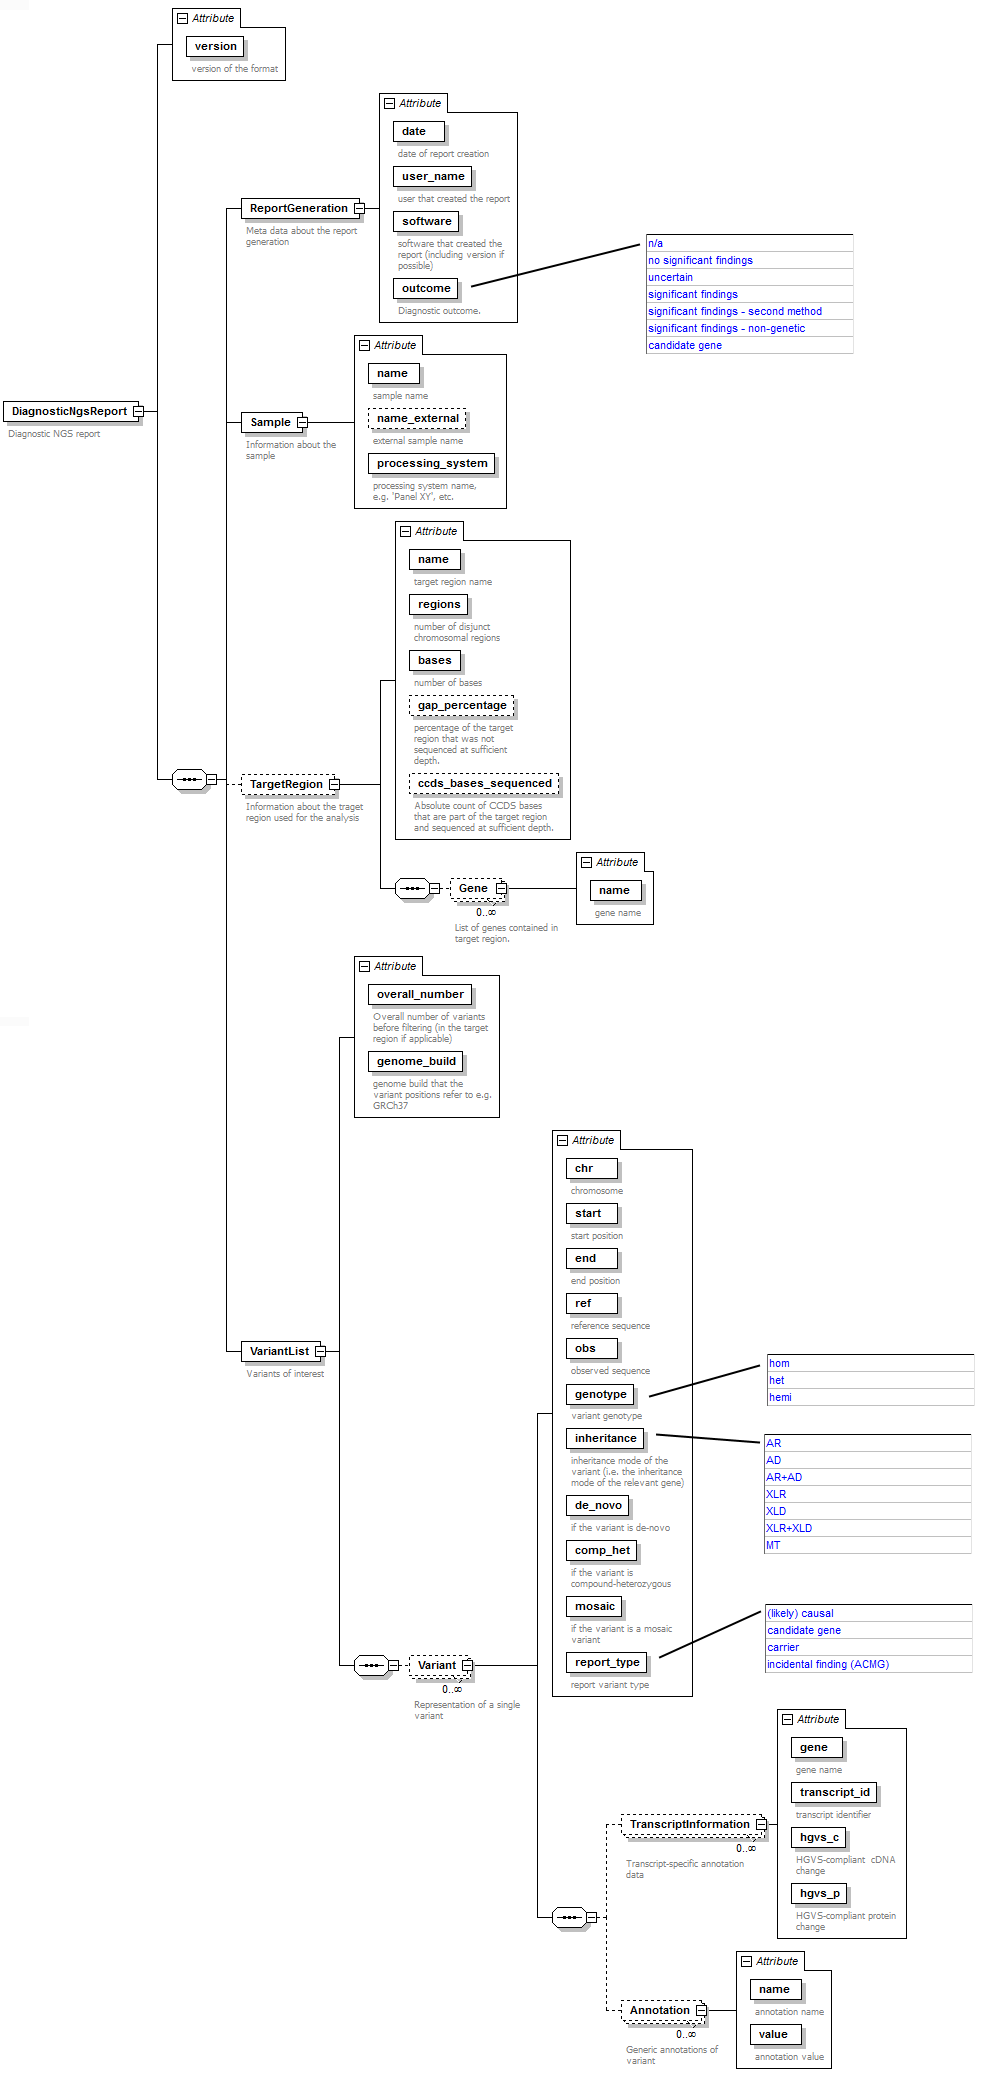
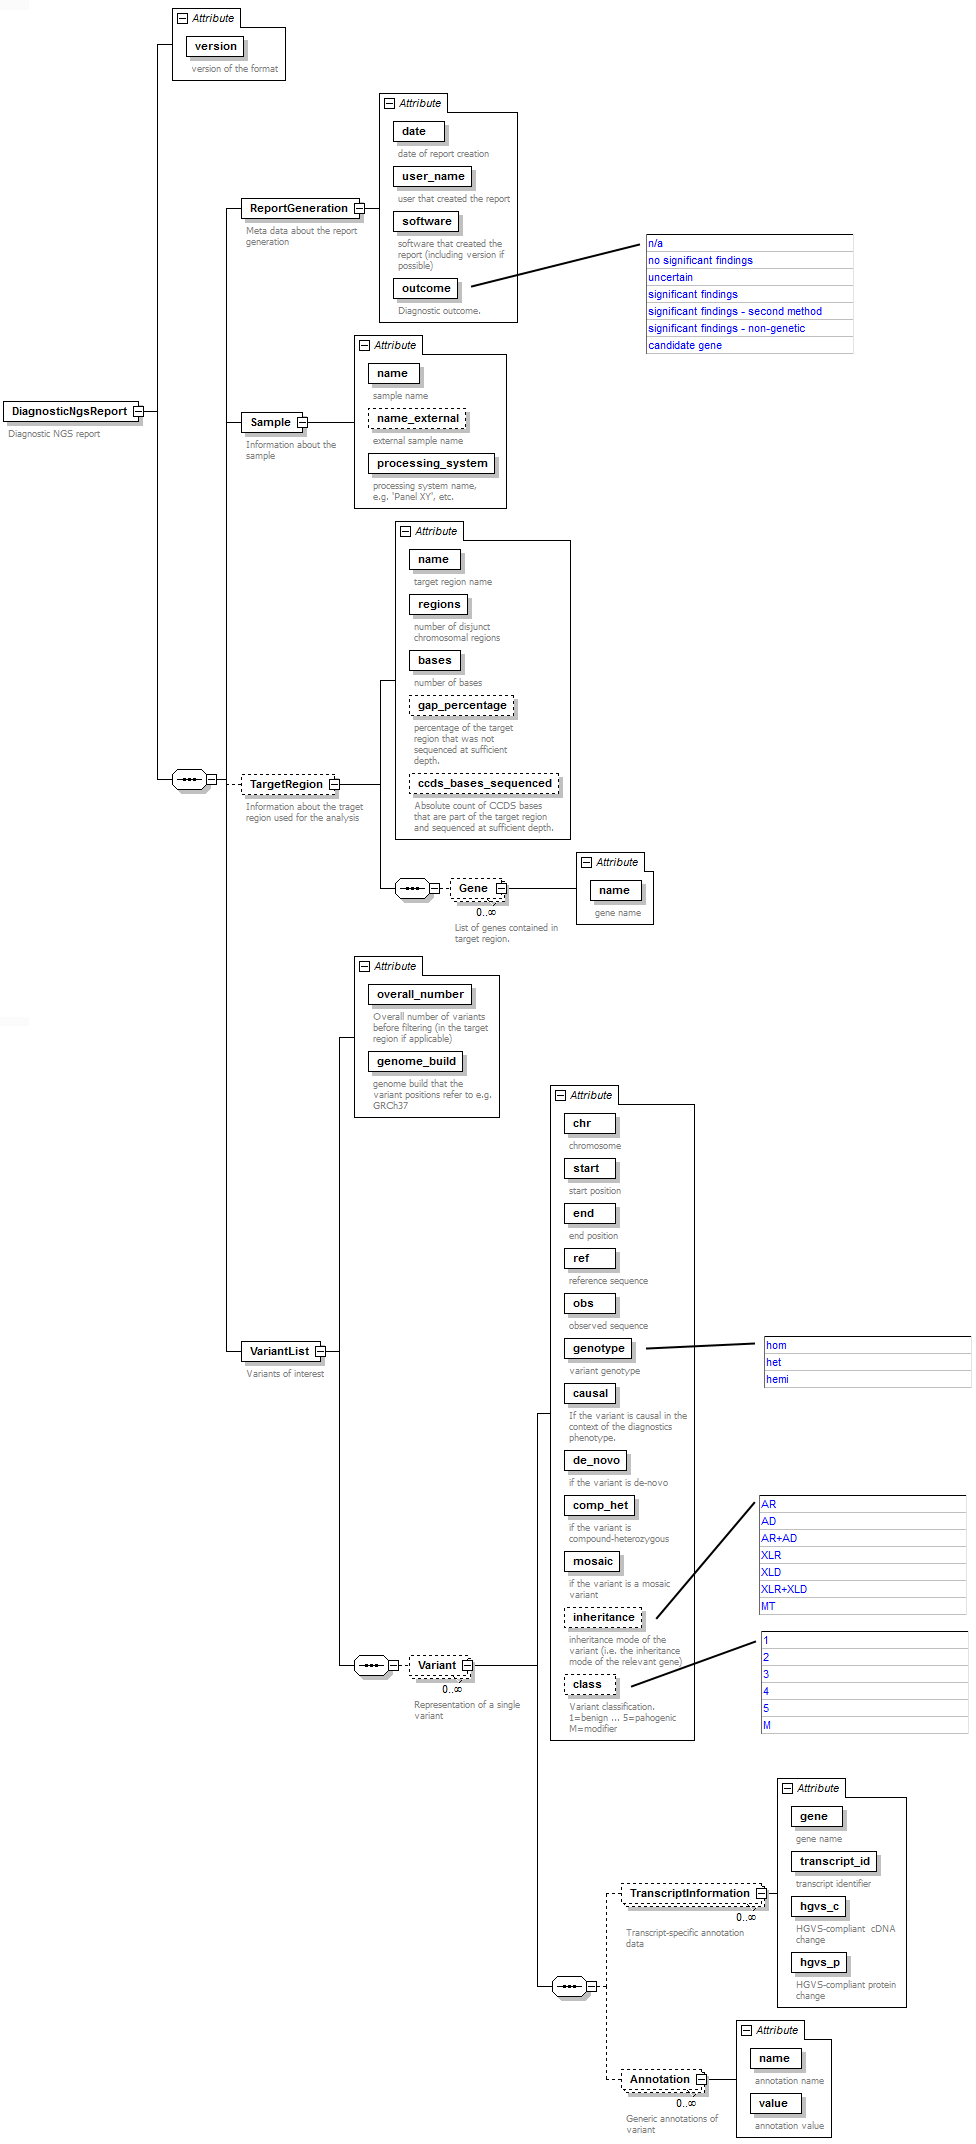
Updated XML export format.

diff --git a/src/GSvar/ReportWorker.cpp b/src/GSvar/ReportWorker.cpp
@@ -893,7 +893,6 @@ QString ReportWorker::trans(const QString& text) const
 
 void ReportWorker::writeXML(QString outfile_name)
 {
-	qDebug();
 	QSharedPointer<QFile> outfile = Helper::openFileForWriting(outfile_name);
 
 	QXmlStreamWriter w(outfile.data());
@@ -975,11 +974,19 @@ void ReportWorker::writeXML(QString outfile_name)
 		w.writeAttribute("ref", variant.ref());
 		w.writeAttribute("obs", variant.obs());
 		w.writeAttribute("genotype", formatGenotype(processed_sample_data.gender.toLatin1(), variant.annotations()[geno_idx], variant.chr(), variant.start(), variant.end()));
-		w.writeAttribute("inheritance", var_conf.inheritance_mode);
+		w.writeAttribute("causal", var_conf.causal ? "true" : "false");
 		w.writeAttribute("de_novo", var_conf.de_novo ? "true" : "false");
 		w.writeAttribute("comp_het", var_conf.comp_het ? "true" : "false");
 		w.writeAttribute("mosaic", var_conf.mosaic ? "true" : "false");
-		w.writeAttribute("report_type", QString(var_conf.type).replace("report: ", ""));
+		if (var_conf.inheritance_mode!="n/a")
+		{
+			w.writeAttribute("inheritance", var_conf.inheritance_mode);
+		}
+		ClassificationInfo classification_info = db_.getClassification(variant);
+		if (classification_info.classification!="n/a")
+		{
+			w.writeAttribute("class", classification_info.classification);
+		}
 
 		//element TranscriptInformation
 		int i_co_sp = variants_.annotationIndexByName("coding_and_splicing", true, false);

diff --git a/src/GSvar/ReportSettings.cpp b/src/GSvar/ReportSettings.cpp
@@ -25,7 +25,7 @@ QIcon ReportVariantConfiguration::icon() const
 QStringList ReportVariantConfiguration::getTypeOptions()
 {
 	//TODO take from NGSD once implemented (cache)
-	return QStringList() << "diagnostic variant" << "candidate variant" << "incidental finding (ACMG)";
+	return QStringList() << "diagnostic variant" << "candidate variant" << "incidental finding";
 }
 
 QStringList ReportVariantConfiguration::getReportOptions()
